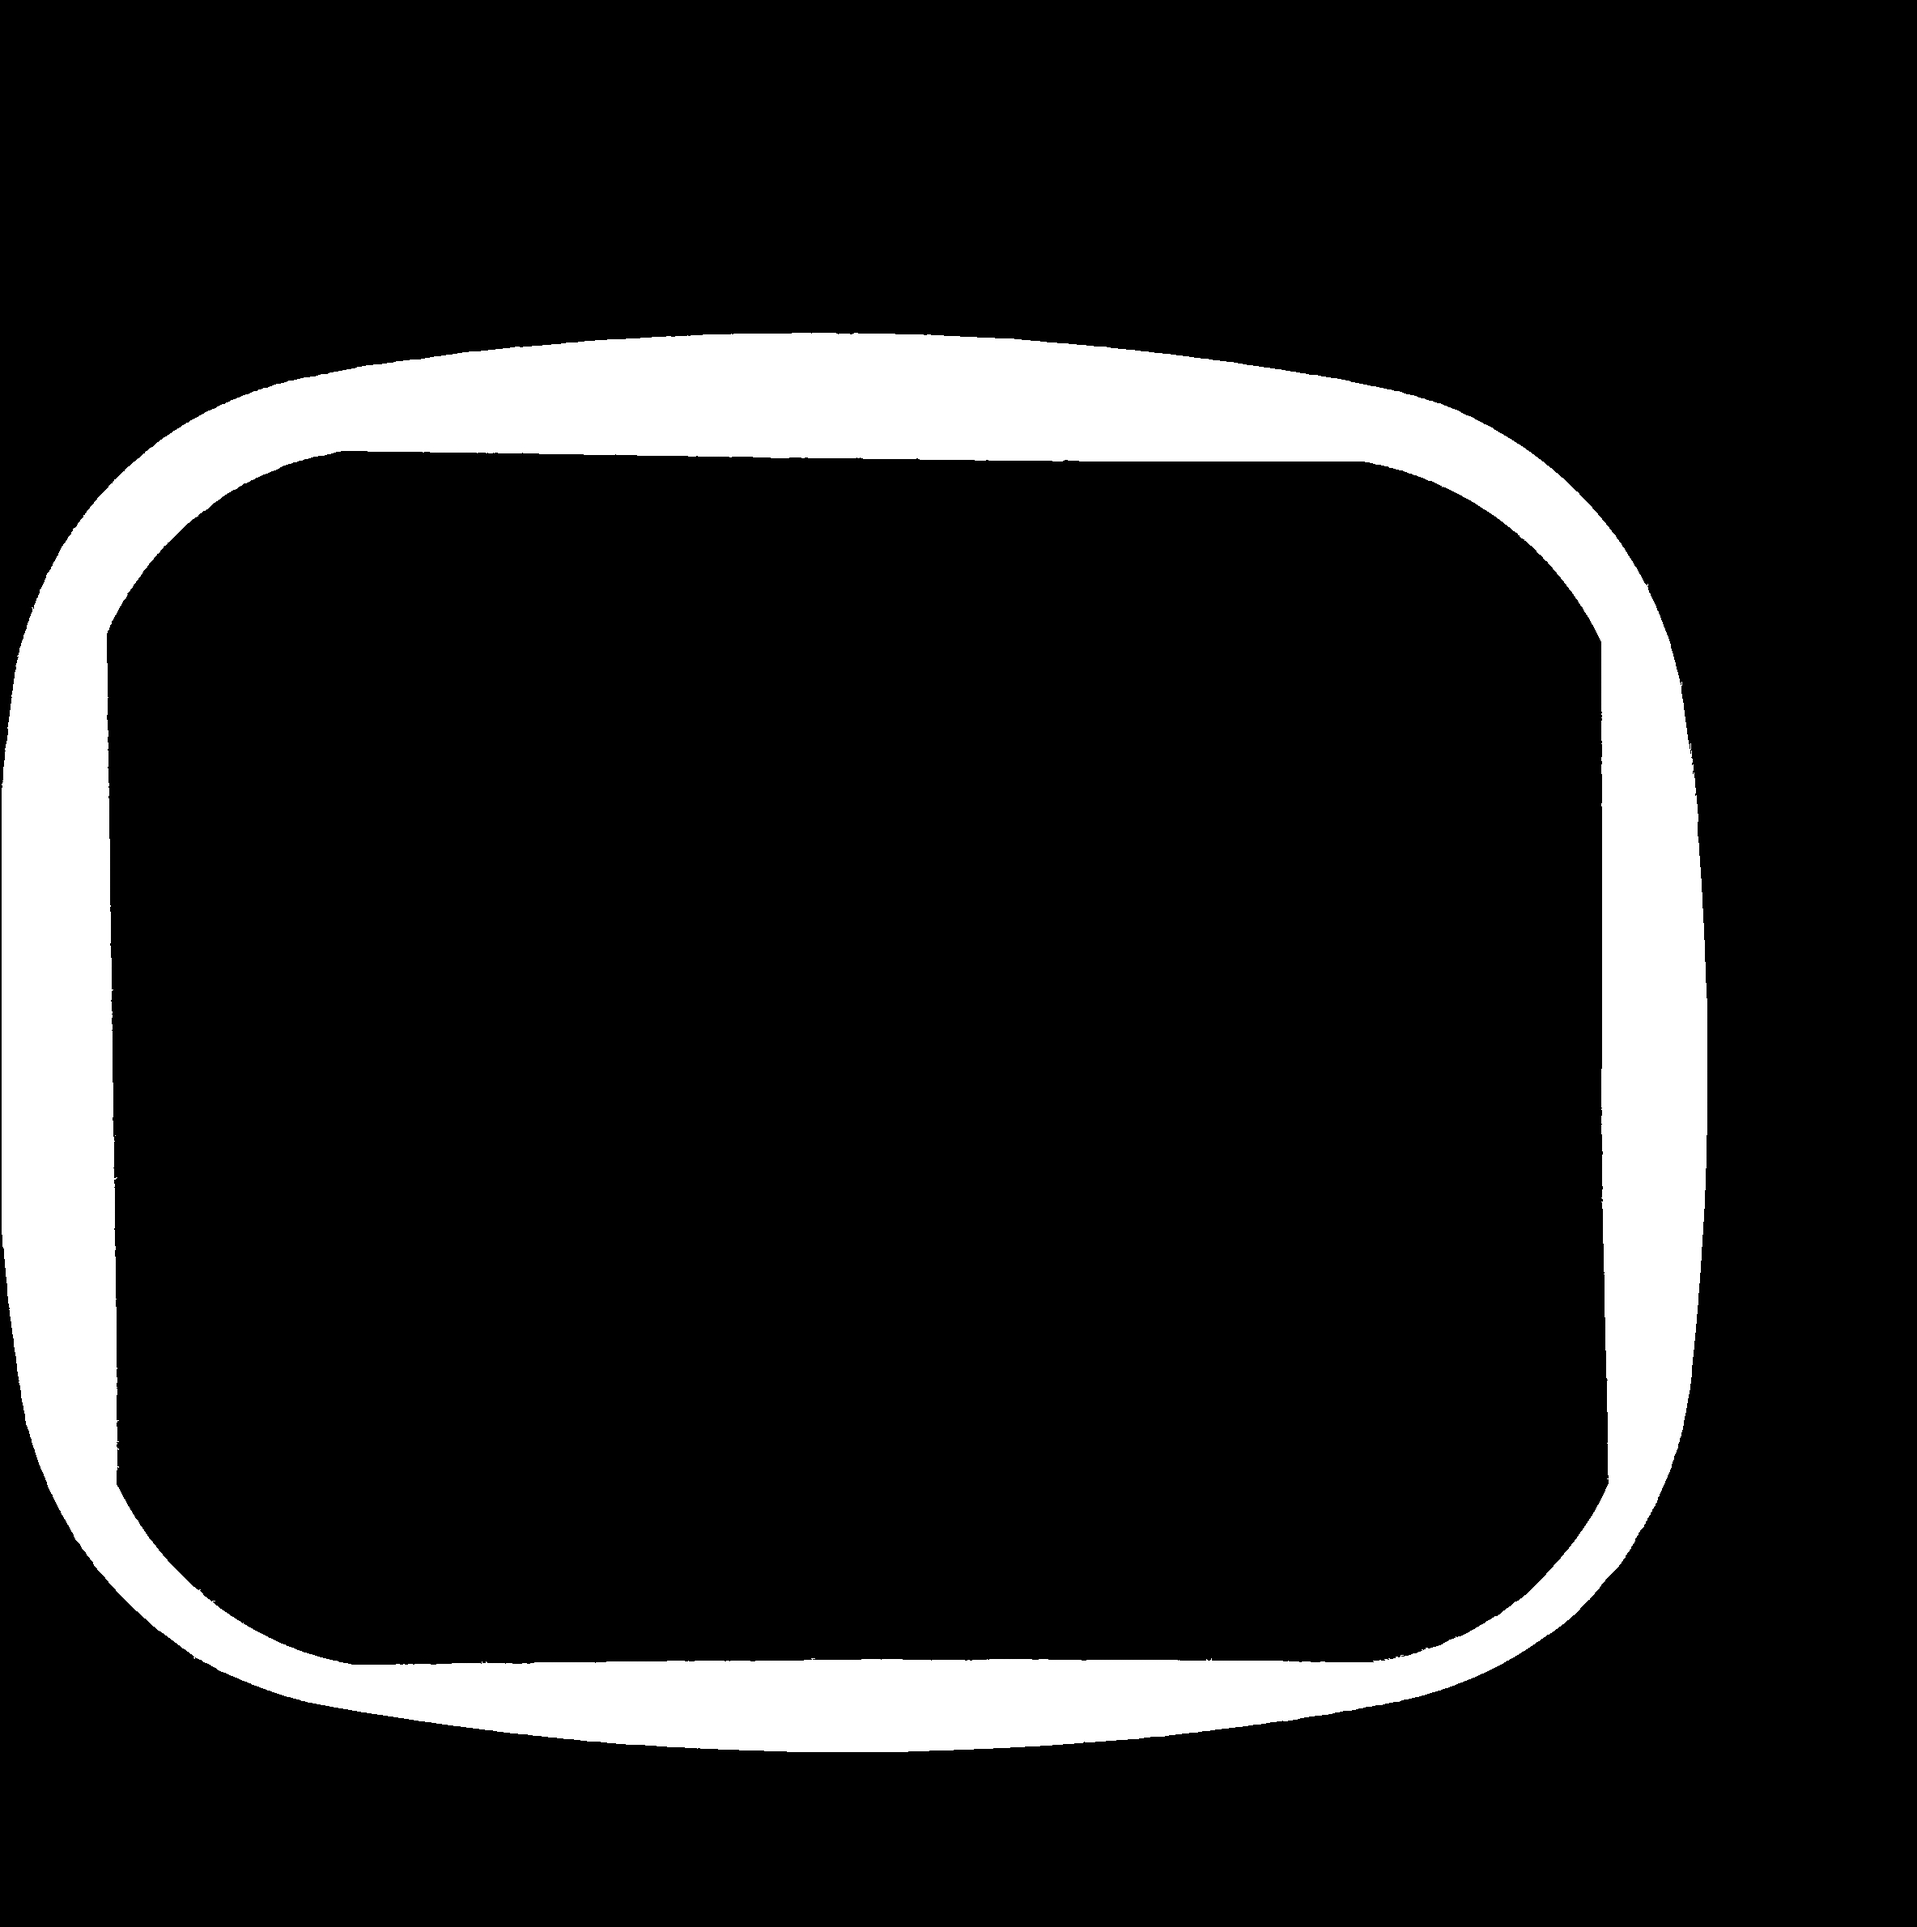
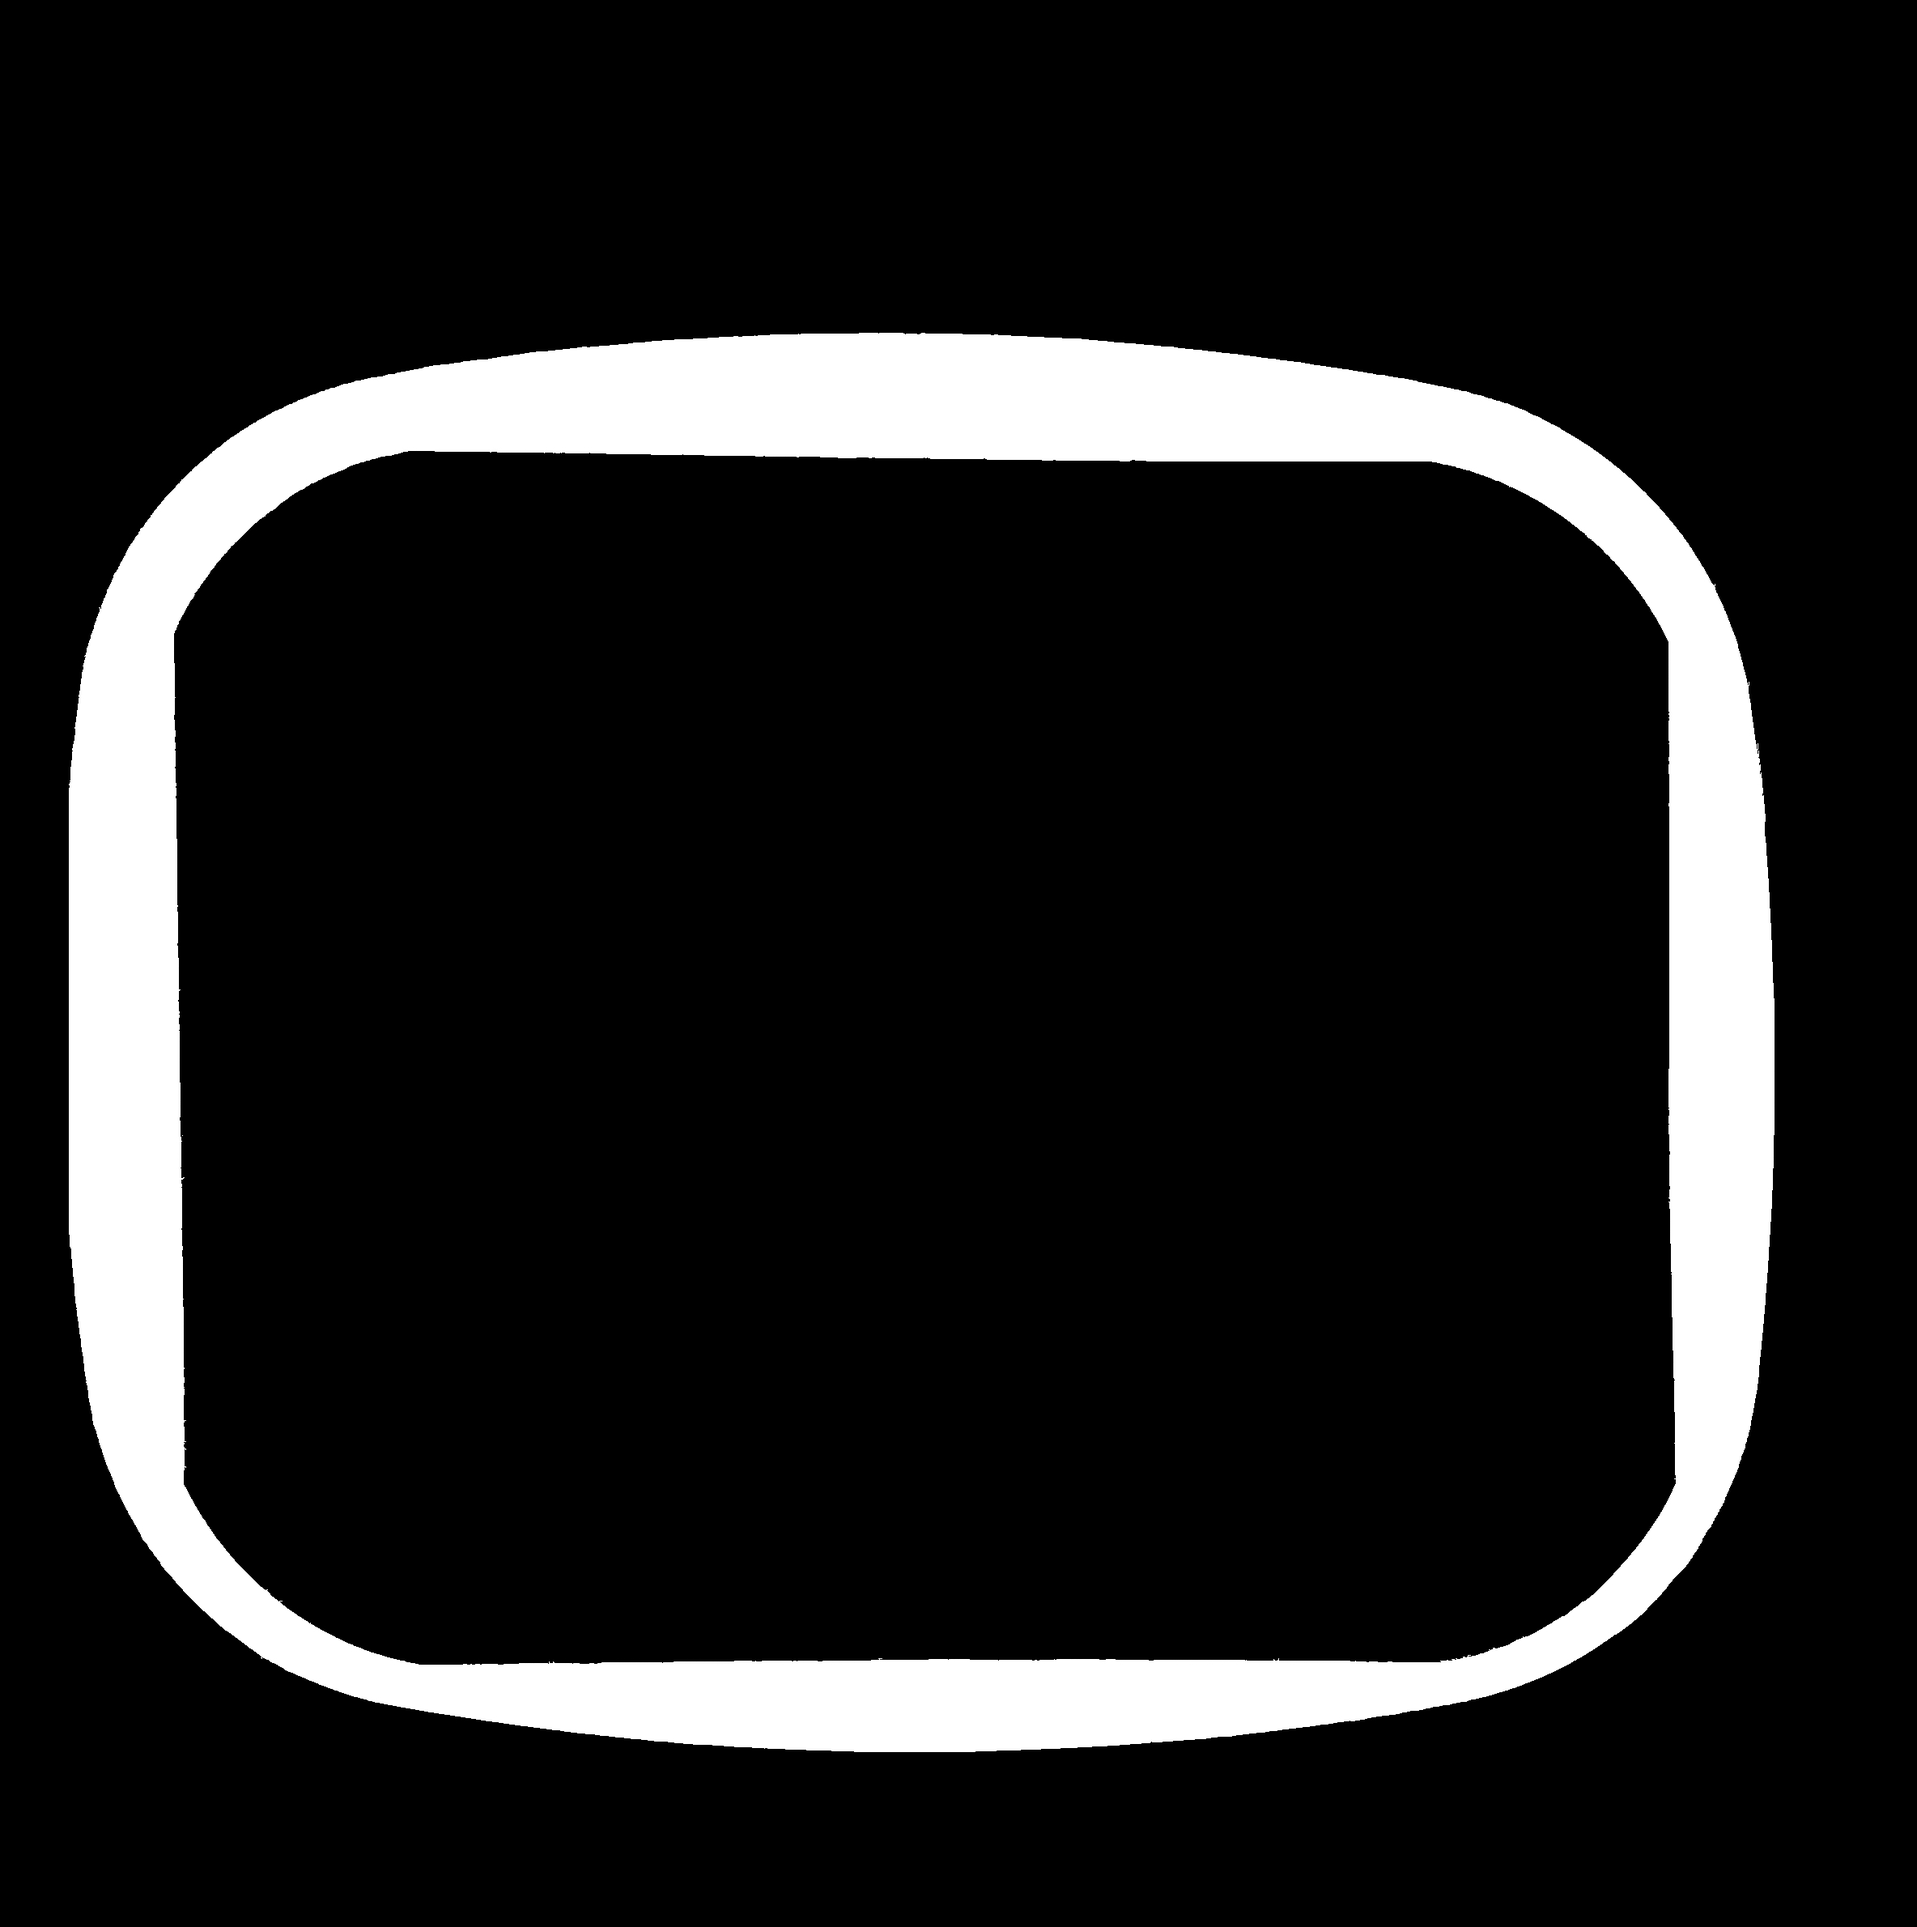
removed grayscale image, modified output doc images, updates to process-segmented scripts for print output and unified logic

diff --git a/src/process-segmented-5x7.py b/src/process-segmented-5x7.py
@@ -5,23 +5,17 @@ import math
 # Load the image
 image = cv2.imread("/photos/5x7_segmented.jpg")
 
-# Invert the image
-image = cv2.bitwise_not(image)
-
 # Convert to grayscale
 grayscale = cv2.cvtColor(image, cv2.COLOR_BGR2GRAY)
 
 # Find contours
 contours, hierarchy = cv2.findContours(grayscale, cv2.RETR_TREE, cv2.CHAIN_APPROX_SIMPLE)
 
-# Invert image
-image = cv2.bitwise_not(image)
-
 # Draw contours
 cv2.drawContours(image, contours, -1, (0, 0, 255), 2)
 
 # Process outer contour
-outer_contour = sorted(contours, key=cv2.contourArea)[-2]
+outer_contour = sorted(contours, key=cv2.contourArea)[-1]
 outer_bounding_box = cv2.boundingRect(outer_contour)
 cv2.rectangle(image, outer_bounding_box, (255, 0, 0), 2)
 
@@ -53,7 +47,7 @@ cv2.circle(image, centriod(outer_S_contour), 10, (255, 100, 100), -1)
 cv2.circle(image, centriod(outer_W_contour), 10, (255, 100, 100), -1)
 
 # Process inner contour
-inner_contour = sorted(contours, key=cv2.contourArea)[-3]
+inner_contour = sorted(contours, key=cv2.contourArea)[-2]
 inner_bounding_box = cv2.boundingRect(inner_contour)
 cv2.rectangle(image, inner_bounding_box, (0, 255, 0), 2)
 
@@ -103,14 +97,27 @@ cv2.line(image, inner_bounding_box_N_point, inner_bounding_box_S_point, (0, 255,
 cv2.imwrite("/photos/5x7_final.jpg", image)
 
 # Calculate the outer values
-outer_w = distance(centriod(outer_E_contour), centriod(outer_W_contour))
-outer_h = distance(centriod(outer_N_contour), centriod(outer_S_contour))
+outer_w = distance(outer_bounding_box_E_point, outer_bounding_box_W_point)
+outer_w = max(outer_w, distance(outer_bounding_box_E_point, outer_bounding_box_W_point))
+outer_h = distance(outer_bounding_box_N_point, outer_bounding_box_S_point)
+outer_h = max(outer_h, distance(outer_bounding_box_N_point, outer_bounding_box_S_point))
 
 # Calculate the inner values
-inner_w = distance(centriod(inner_E_contour), centriod(inner_W_contour))
-inner_h = distance(centriod(inner_N_contour), centriod(inner_S_contour))
+inner_w = distance(inner_bounding_box_E_point, inner_bounding_box_W_point)
+inner_w = max(inner_w, distance(inner_bounding_box_E_point, inner_bounding_box_W_point))
+inner_h = distance(inner_bounding_box_N_point, inner_bounding_box_S_point)
+inner_h = max(inner_h, distance(inner_bounding_box_N_point, inner_bounding_box_S_point))
 
-print(f"outer_w: {outer_w:.2f}")
-print(f"outer_h: {outer_h:.2f}")
-print(f"inner_w: {inner_w:.2f}")
-print(f"inner_h: {inner_h:.2f}")
+print(f"outer_w: {int(outer_w)} px")
+print(f"outer_h: {int(outer_h)} px")
+print(f"inner_w: {int(inner_w)} px")
+print(f"inner_h: {int(inner_h)} px")
+
+width, height, _ = image.shape
+px_per_inch_x = width / 8
+px_per_inch_y = height / 8
+
+print(f"outer_w: {outer_w / px_per_inch_x:.2f} in")
+print(f"outer_h: {outer_h / px_per_inch_y:.2f} in")
+print(f"inner_w: {inner_w / px_per_inch_x:.2f} in")
+print(f"inner_h: {inner_h / px_per_inch_y:.2f} in")

diff --git a/src/process-segmented-4x4.py b/src/process-segmented-4x4.py
@@ -5,9 +5,6 @@ import math
 # Load the image
 image = cv2.imread("/photos/4x4_segmented.jpg")
 
-# Invert the image
-image = cv2.bitwise_not(image)
-
 # Convert to grayscale
 grayscale = cv2.cvtColor(image, cv2.COLOR_BGR2GRAY)
 
@@ -18,7 +15,7 @@ contours, hierarchy = cv2.findContours(grayscale, cv2.RETR_TREE, cv2.CHAIN_APPRO
 cv2.drawContours(image, contours, -1, (0, 0, 255), 2)
 
 # Process outer contour
-outer_contour = max(contours, key=cv2.contourArea)
+outer_contour = sorted(contours, key=cv2.contourArea)[-1]
 outer_bounding_box = cv2.boundingRect(outer_contour)
 cv2.rectangle(image, outer_bounding_box, (255, 0, 0), 2)
 
@@ -100,14 +97,27 @@ cv2.line(image, inner_bounding_box_N_point, inner_bounding_box_S_point, (0, 255,
 cv2.imwrite("/photos/4x4_final.jpg", image)
 
 # Calculate the outer values
-outer_w = distance(centriod(outer_E_contour), centriod(outer_W_contour))
-outer_h = distance(centriod(outer_N_contour), centriod(outer_S_contour))
+outer_w = distance(outer_bounding_box_E_point, outer_bounding_box_W_point)
+outer_w = max(outer_w, distance(outer_bounding_box_E_point, outer_bounding_box_W_point))
+outer_h = distance(outer_bounding_box_N_point, outer_bounding_box_S_point)
+outer_h = max(outer_h, distance(outer_bounding_box_N_point, outer_bounding_box_S_point))
 
 # Calculate the inner values
-inner_w = distance(centriod(inner_E_contour), centriod(inner_W_contour))
-inner_h = distance(centriod(inner_N_contour), centriod(inner_S_contour))
+inner_w = distance(inner_bounding_box_E_point, inner_bounding_box_W_point)
+inner_w = max(inner_w, distance(inner_bounding_box_E_point, inner_bounding_box_W_point))
+inner_h = distance(inner_bounding_box_N_point, inner_bounding_box_S_point)
+inner_h = max(inner_h, distance(inner_bounding_box_N_point, inner_bounding_box_S_point))
 
-print(f"outer_w: {outer_w:.2f}")
-print(f"outer_h: {outer_h:.2f}")
-print(f"inner_w: {inner_w:.2f}")
-print(f"inner_h: {inner_h:.2f}")
+print(f"outer_w: {int(outer_w)} px")
+print(f"outer_h: {int(outer_h)} px")
+print(f"inner_w: {int(inner_w)} px")
+print(f"inner_h: {int(inner_h)} px")
+
+width, height, _ = image.shape
+px_per_inch_x = width / 8
+px_per_inch_y = height / 8
+
+print(f"outer_w: {outer_w / px_per_inch_x:.2f} in")
+print(f"outer_h: {outer_h / px_per_inch_y:.2f} in")
+print(f"inner_w: {inner_w / px_per_inch_x:.2f} in")
+print(f"inner_h: {inner_h / px_per_inch_y:.2f} in")

diff --git a/README.md b/README.md
@@ -6,7 +6,10 @@ A reverse engineering project for my mom.
 
 # Table of Contents
 
-- [ ] 
+- [Introduction](#introduction)
+- [Process](#process)
+  - [4x4 Inner/Outer Pixel Results](#4x4-innerouter-pixel-results)
+  - [5x7 Inner/Outer Pixel Results](#5x7-innerouter-pixel-results)
 
 # Introduction
 
@@ -17,8 +20,59 @@ My mom asked for custom inserts for her embroidery machine. This project documen
 I asked her for a photo of the hoop with a coin for scale. She suggested using her fiskars cutting mat for scale.
 
 ![Fiskars Cutting Mat](docs/4x4.jpg)
+> 4x4 hoop
+
+![Fiskars Cutting Mat](docs/5x7.jpg)
+> 5x7 hoop
 
 I used paint.net to get some pixel measurements and then applied a perspective transformation to the image.
 
 ![4x4 Transformed](docs/4x4_transformed.jpg)
+> 4x4 perspective transformed
 
+![5x7 Transformed](docs/5x7_transformed.jpg)
+> 5x7 perspective transformed
+
+I'd then convert the image to grayscale and applied a canny edge detection.
+
+![4x4 Edges](docs/4x4_edges.jpg)
+> 4x4 canny edge detection
+
+![5x7 Edges](docs/5x7_edges.jpg)
+> 5x7 canny edge detection
+
+I manaually edited the image to highlight the insert.
+
+![4x4 Segmented](docs/4x4_segmented.jpg)
+> 4x4 segmented
+
+![5x7 Segmented](docs/5x7_segmented.jpg)
+> 5x7 segmented
+
+Then I computed the outer and inner contours and bounding boxes.
+
+![4x4 Final](docs/4x4_final.jpg)
+> 4x4 final
+
+![5x7 Final](docs/5x7_final.jpg)
+> 5x7 final
+
+From there I computed the outer and inner width and height.
+
+## 4x4 Inner/Outer Pixel Results
+
+| Name | px | in |
+| --- | --- | --- |
+| outer_w | 2118 | 6.76 |
+| outer_h | 1792 | 5.79 |
+| inner_w | 1920 | 6.12 |
+| inner_h | 1588 | 5.13 |
+
+## 5x7 Inner/Outer Pixel Results
+
+| Name | px | in |
+| --- | --- | --- |
+| outer_w | 2107 | 7.08 |
+| outer_h | 1754 | 5.93 |
+| inner_w | 1857 | 6.24 |
+| inner_h | 1501 | 5.07 |
